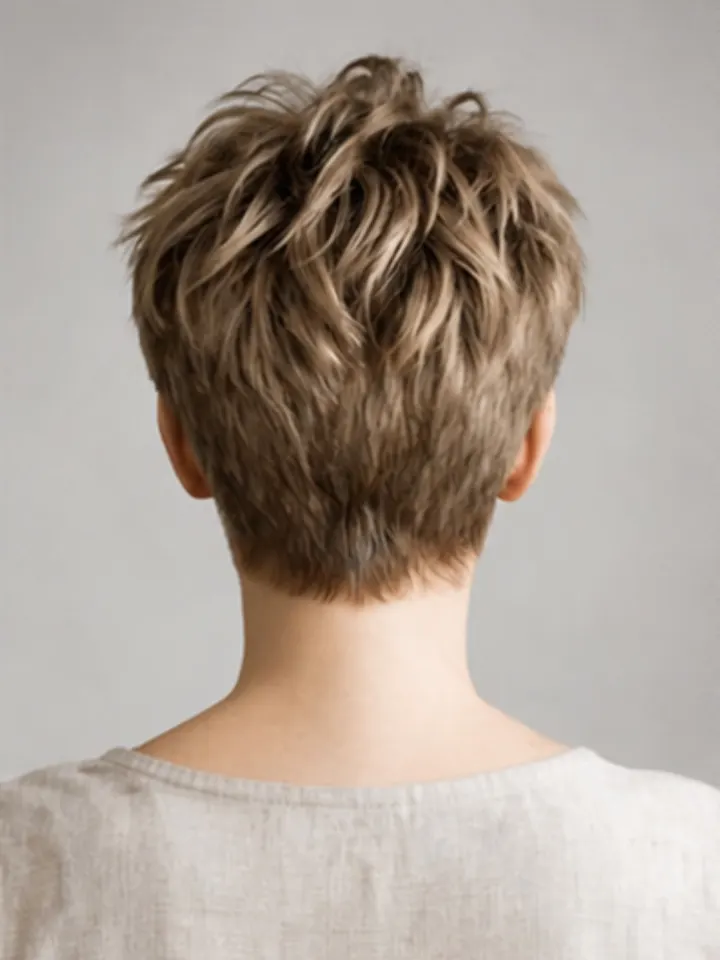
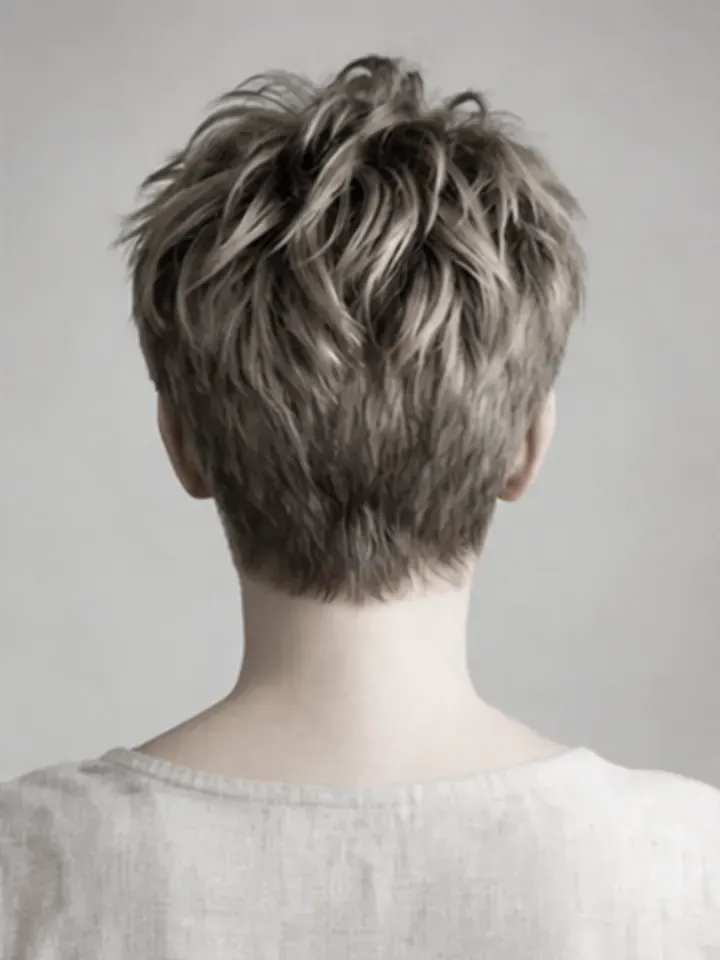
tutor 第二輪修正併入；hair 預覽補店內照片、Lookbook 降飽和、第 2 款圖說改為層次短髮
Claude-Session: https://claude.ai/code/session_016ub6HU8UtdgPHkCx1HUXwU

diff --git a/templates/ja/hair/index.html b/templates/ja/hair/index.html
@@ -647,7 +647,7 @@ html:not(.js) .look-nav { display: none; }
   <div class="look-scroll" id="look-scroll" tabindex="0" role="region" aria-labelledby="look-h">
   <ul class="look-list">
     <li><figure><div class="img img-l1" role="img" aria-label="写真：ロングウェーブの後ろ姿"></div><figcaption><b>ロングウェーブ</b><span class="sr-only">：</span>デジタルパーマ、担当 Sho</figcaption></figure></li>
-    <li><figure><div class="img img-l2" role="img" aria-label="写真：あご下のショートボブの後ろ姿"></div><figcaption><b>あご下のボブ</b><span class="sr-only">：</span>カット、担当 Mika</figcaption></figure></li>
+    <li><figure><div class="img img-l2" role="img" aria-label="写真：ショートヘアの後ろ姿"></div><figcaption><b>ショートレイヤー</b><span class="sr-only">：</span>カット、担当 Mika</figcaption></figure></li>
     <li><figure><div class="img img-l3" role="img" aria-label="写真：メンズフェードの後ろ姿"></div><figcaption><b>メンズフェード</b><span class="sr-only">：</span>カット、担当 Sho</figcaption></figure></li>
     <li><figure><div class="img img-l4" role="img" aria-label="写真：細めのハイライトの後ろ姿"></div><figcaption><b>細めのハイライト</b><span class="sr-only">：</span>ブリーチとカラー、担当 Yuu</figcaption></figure></li>
     <li><figure><div class="img img-l5" role="img" aria-label="写真：胸下のストレートの後ろ姿"></div><figcaption><b>胸下のストレート</b><span class="sr-only">：</span>縮毛矯正、担当 Mika</figcaption></figure></li>

diff --git a/templates/en/hair/index.html b/templates/en/hair/index.html
@@ -648,7 +648,7 @@ html:not(.js) .look-nav { display: none; }
   <div class="look-scroll" id="look-scroll" tabindex="0" role="region" aria-labelledby="look-h">
   <ul class="look-list">
     <li><figure><div class="img img-l1" role="img" aria-label="Photo placeholder: back view of long wavy hair"></div><figcaption><b>Long waves</b><span class="sr-only">: </span>Digital perm by Bo</figcaption></figure></li>
-    <li><figure><div class="img img-l2" role="img" aria-label="Photo placeholder: back view of a short bob"></div><figcaption><b>Chin-length bob</b><span class="sr-only">: </span>Cut by Mika</figcaption></figure></li>
+    <li><figure><div class="img img-l2" role="img" aria-label="Photo placeholder: back view of a short cut"></div><figcaption><b>Layered short cut</b><span class="sr-only">: </span>Cut by Mika</figcaption></figure></li>
     <li><figure><div class="img img-l3" role="img" aria-label="Photo placeholder: back view of a men’s fade"></div><figcaption><b>Men’s fade</b><span class="sr-only">: </span>Cut by Bo</figcaption></figure></li>
     <li><figure><div class="img img-l4" role="img" aria-label="Photo placeholder: back view of fine highlights"></div><figcaption><b>Fine highlights</b><span class="sr-only">: </span>Bleach and color by Yuu</figcaption></figure></li>
     <li><figure><div class="img img-l5" role="img" aria-label="Photo placeholder: back view of long straight hair"></div><figcaption><b>Long and straight</b><span class="sr-only">: </span>Straightening by Mika</figcaption></figure></li>

diff --git a/templates/hair/index.html b/templates/hair/index.html
@@ -647,7 +647,7 @@ html:not(.js) .look-nav { display: none; }
   <div class="look-scroll" id="look-scroll" tabindex="0" role="region" aria-labelledby="look-h">
   <ul class="look-list">
     <li><figure><div class="img img-l1" role="img" aria-label="照片位置：長捲髮的背影"></div><figcaption><b>長捲髮</b><span class="sr-only">：</span>溫塑燙，設計師 Bo</figcaption></figure></li>
-    <li><figure><div class="img img-l2" role="img" aria-label="照片位置：耳下短髮的背影"></div><figcaption><b>耳下短髮</b><span class="sr-only">：</span>剪髮，設計師 Mika</figcaption></figure></li>
+    <li><figure><div class="img img-l2" role="img" aria-label="照片位置：短髮的背影"></div><figcaption><b>層次短髮</b><span class="sr-only">：</span>剪髮，設計師 Mika</figcaption></figure></li>
     <li><figure><div class="img img-l3" role="img" aria-label="照片位置：男士漸層短髮的背影"></div><figcaption><b>男士漸層</b><span class="sr-only">：</span>剪髮，設計師 Bo</figcaption></figure></li>
     <li><figure><div class="img img-l4" role="img" aria-label="照片位置：線條挑染的背影"></div><figcaption><b>線條挑染</b><span class="sr-only">：</span>漂髮與染髮，設計師 Yuu</figcaption></figure></li>
     <li><figure><div class="img img-l5" role="img" aria-label="照片位置：及胸直髮的背影"></div><figcaption><b>及胸直髮</b><span class="sr-only">：</span>縮毛矯正，設計師 Mika</figcaption></figure></li>

diff --git a/templates/zh-CN/hair/index.html b/templates/zh-CN/hair/index.html
@@ -647,7 +647,7 @@ html:not(.js) .look-nav { display: none; }
   <div class="look-scroll" id="look-scroll" tabindex="0" role="region" aria-labelledby="look-h">
   <ul class="look-list">
     <li><figure><div class="img img-l1" role="img" aria-label="照片位置：长卷发的背影"></div><figcaption><b>长卷发</b><span class="sr-only">：</span>温塑烫，设计师 Bo</figcaption></figure></li>
-    <li><figure><div class="img img-l2" role="img" aria-label="照片位置：耳下短发的背影"></div><figcaption><b>耳下短发</b><span class="sr-only">：</span>剪发，设计师 Mika</figcaption></figure></li>
+    <li><figure><div class="img img-l2" role="img" aria-label="照片位置：短发的背影"></div><figcaption><b>层次短发</b><span class="sr-only">：</span>剪发，设计师 Mika</figcaption></figure></li>
     <li><figure><div class="img img-l3" role="img" aria-label="照片位置：男士渐层短发的背影"></div><figcaption><b>男士渐层</b><span class="sr-only">：</span>剪发，设计师 Bo</figcaption></figure></li>
     <li><figure><div class="img img-l4" role="img" aria-label="照片位置：线条挑染的背影"></div><figcaption><b>线条挑染</b><span class="sr-only">：</span>漂发与染发，设计师 Yuu</figcaption></figure></li>
     <li><figure><div class="img img-l5" role="img" aria-label="照片位置：及胸直发的背影"></div><figcaption><b>及胸直发</b><span class="sr-only">：</span>缩毛矫正，设计师 Mika</figcaption></figure></li>

diff --git a/previews/hair/photos.css b/previews/hair/photos.css
@@ -10,4 +10,6 @@
 .img-l4 { background: url(photos/look-4.webp) center / cover no-repeat !important; }
 .img-l5 { background: url(photos/look-5.webp) center / cover no-repeat !important; }
 .img-l6 { background: url(photos/look-6.webp) center / cover no-repeat !important; }
+.img-shop { background: url(photos/shop.webp) center / cover no-repeat !important; }
+.img-shop::before, .img-shop::after,
 .img-hero::before, .img-hero::after, .img-s1::before, .img-s1::after, .img-s2::before, .img-s2::after, .img-s3::before, .img-s3::after, .img-l1::before, .img-l1::after, .img-l2::before, .img-l2::after, .img-l3::before, .img-l3::after, .img-l4::before, .img-l4::after, .img-l5::before, .img-l5::after, .img-l6::before, .img-l6::after { content: none !important; display: none !important; }

diff --git a/previews/README.md b/previews/README.md
@@ -34,4 +34,4 @@
 | canton/hero、banquet、dish-1～3、room | 燒臘拼盤；圓桌合菜；蝦餃、乾炒牛河、雲吞麵；白瓷磚餐館內景 |
 | tcm/（地圖） | `.img-map` 刻意不放照片：買家上線時換成 Google 地圖 iframe，預覽維持 CSS 地圖 |
 | tutor/hero、teacher-1～3、desk | 小班教室；虛構老師 3 位；俯拍書桌 |
-| hair/hero、stylist-1～3、look-1～6 | 鮑伯頭背影；虛構設計師 3 位；六款髮型背影（店內照片待補，暫用 CSS 圖） |
+| hair/hero、stylist-1～3、look-1～6、shop | 鮑伯頭背影；虛構設計師 3 位；六款髮型背影；水泥牆與圓鏡的店內 |
